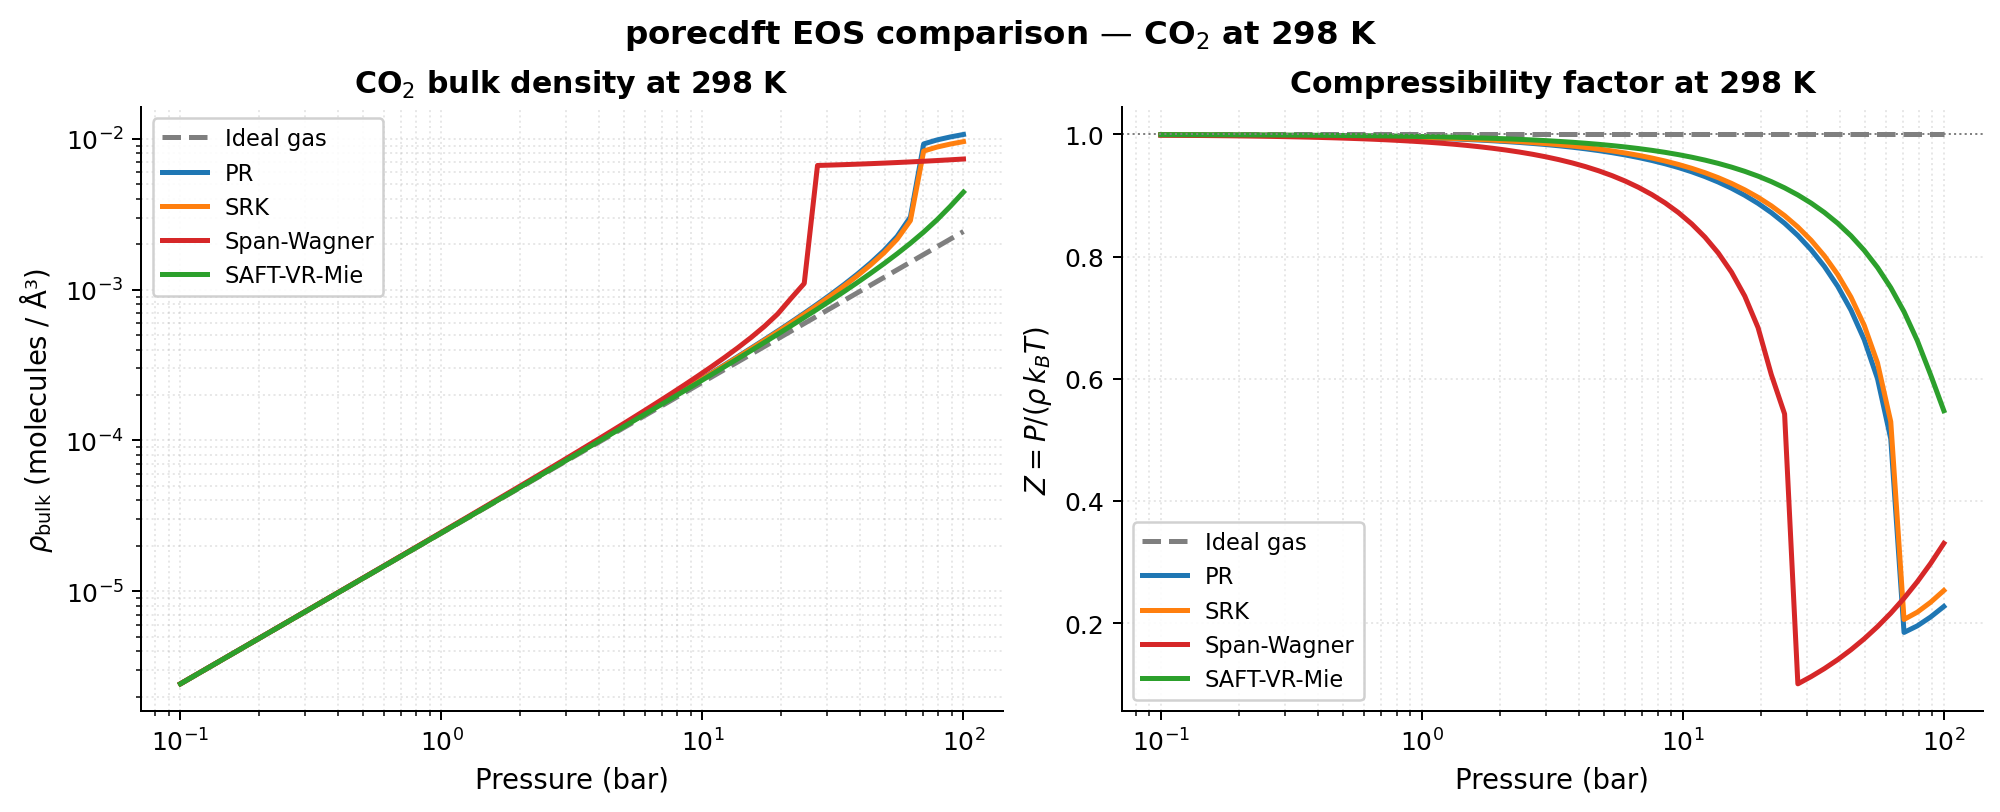
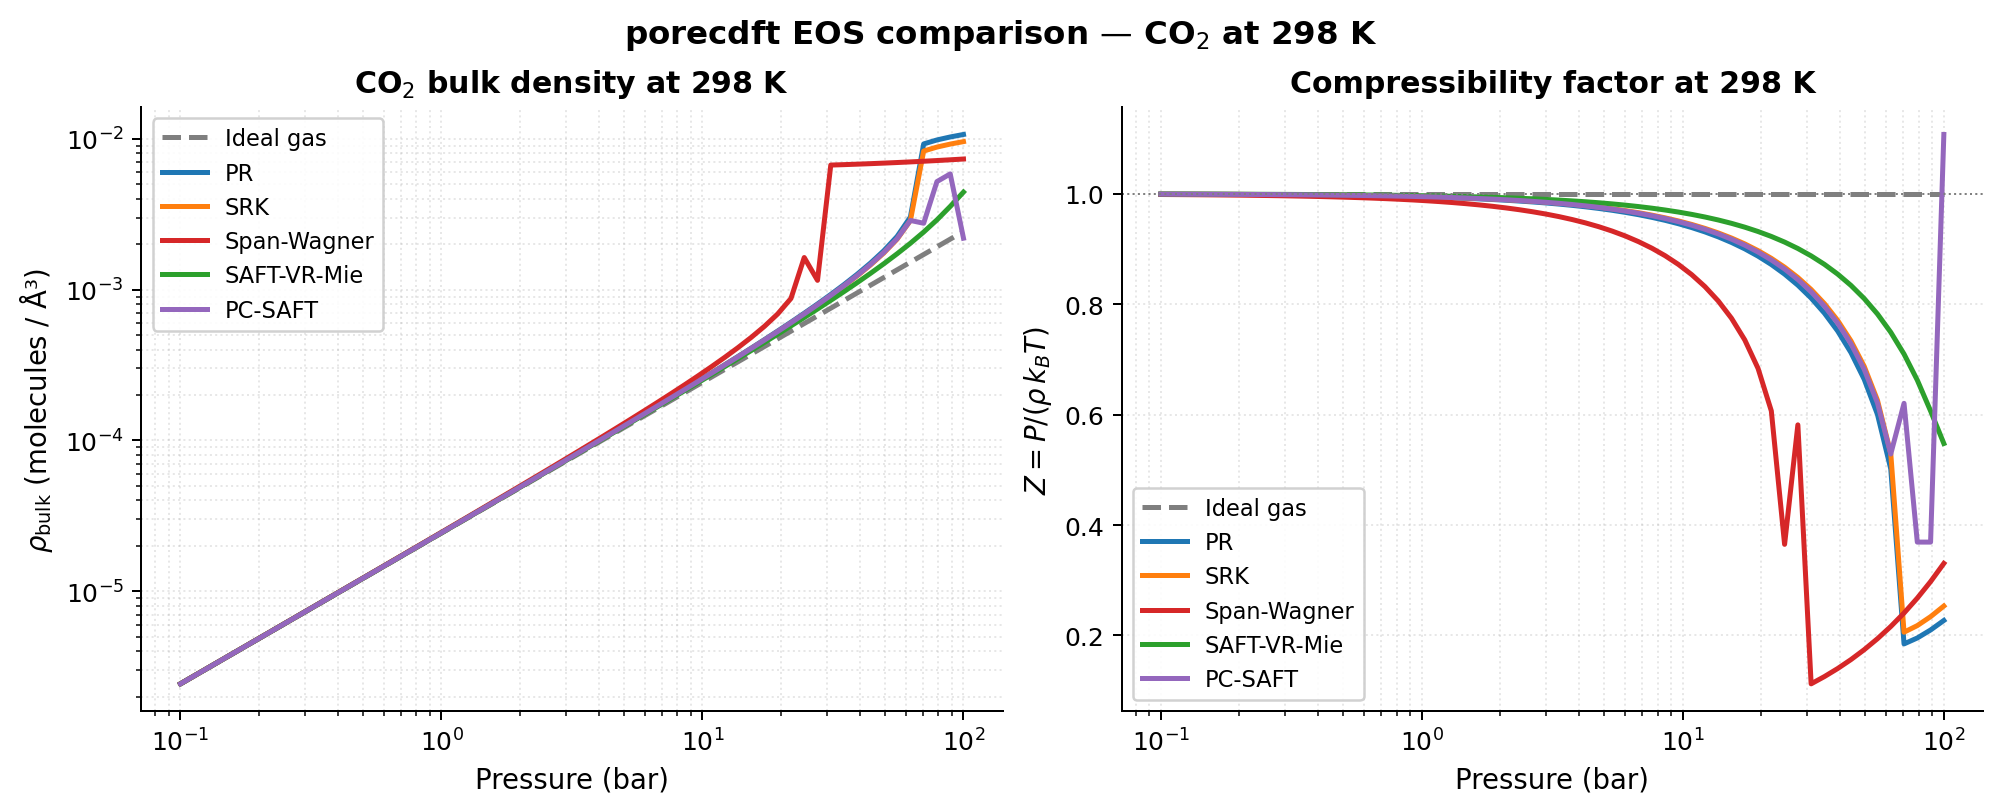
Add PC-SAFT to CO2 multi-EOS comparison demo
Updates applications/eos_compare/co2_comparison.py to include the new
PC-SAFT EOS alongside ideal gas, PR, SRK, Span-Wagner, SAFT-VR-Mie.

At 298 K, CO2 bulk density:
  ρ(1 bar)   = 2.541e-05  Å⁻³ → Z = 0.9947 (very close to PR/SRK)
  ρ(50 bar)  = 1.765e-03  Å⁻³ → Z = 0.6821 (PR: 0.664, SRK: 0.688)

PC-SAFT and PR/SRK agree to ~1 % across the gas regime, as expected.
Span-Wagner correctly captures the near-critical density rise above
Pc=73.77 bar; SAFT-VR-Mie has a softer approach to criticality
(consistent with the Mie-23 repulsive exponent in the Avendaño 2011
CO2 parameter set).

diff --git a/applications/eos_compare/co2_comparison.py b/applications/eos_compare/co2_comparison.py
@@ -28,6 +28,7 @@ from porecdft.eos import (
     CO2_SW,
     CO2_SRK,
     CO2_SAFT_VR_Mie,
+    CO2_PCSAFT,
 )
 
 # CO2 Peng-Robinson singleton (paper Tc=304.13, Pc=73.77 bar, omega=0.225)
@@ -48,6 +49,7 @@ eos_panel = [
     ("SRK",       lambda P: CO2_SRK.bulk_density(P, T_K), "#ff7f0e", "-"),
     ("Span-Wagner", lambda P: CO2_SW.bulk_density(P, T_K), "#d62728", "-"),
     ("SAFT-VR-Mie", lambda P: CO2_SAFT_VR_Mie.bulk_density(P, T_K), "#2ca02c", "-"),
+    ("PC-SAFT",     lambda P: float(CO2_PCSAFT.bulk_density(P, T_K)), "#9467bd", "-"),
 ]
 
 rho_curves = {}
